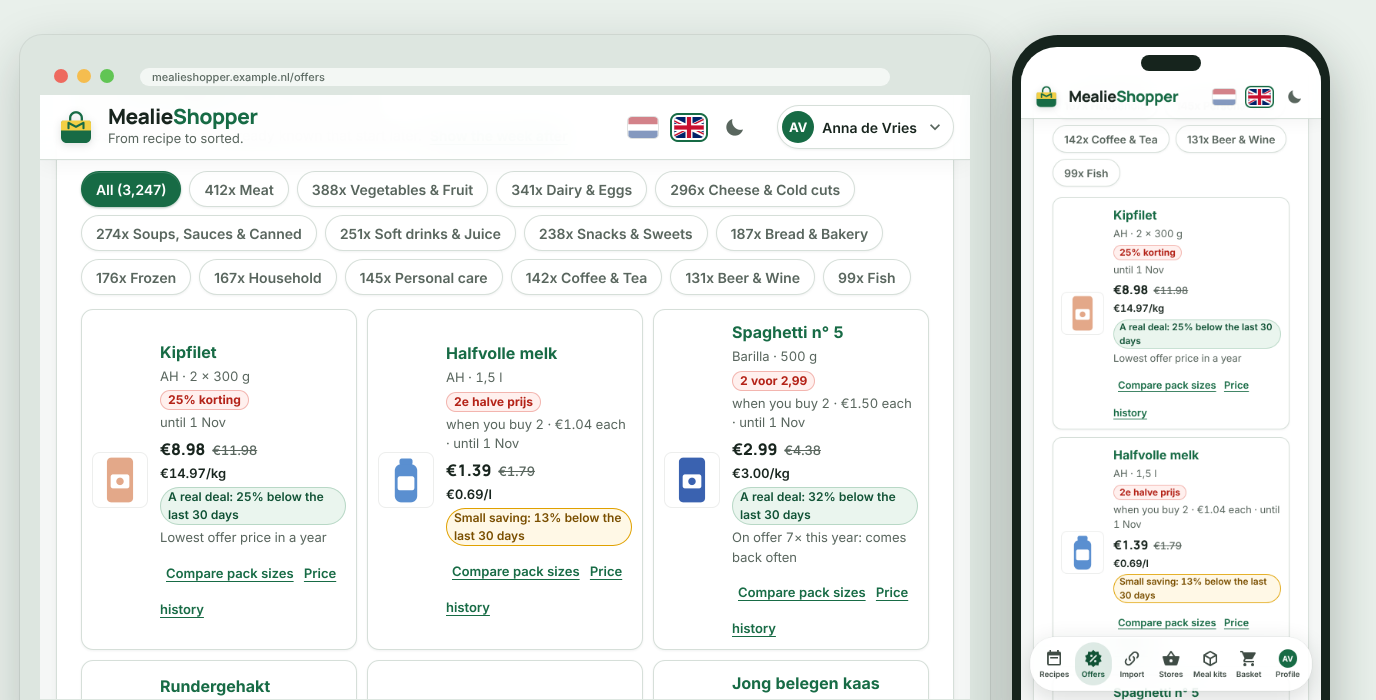
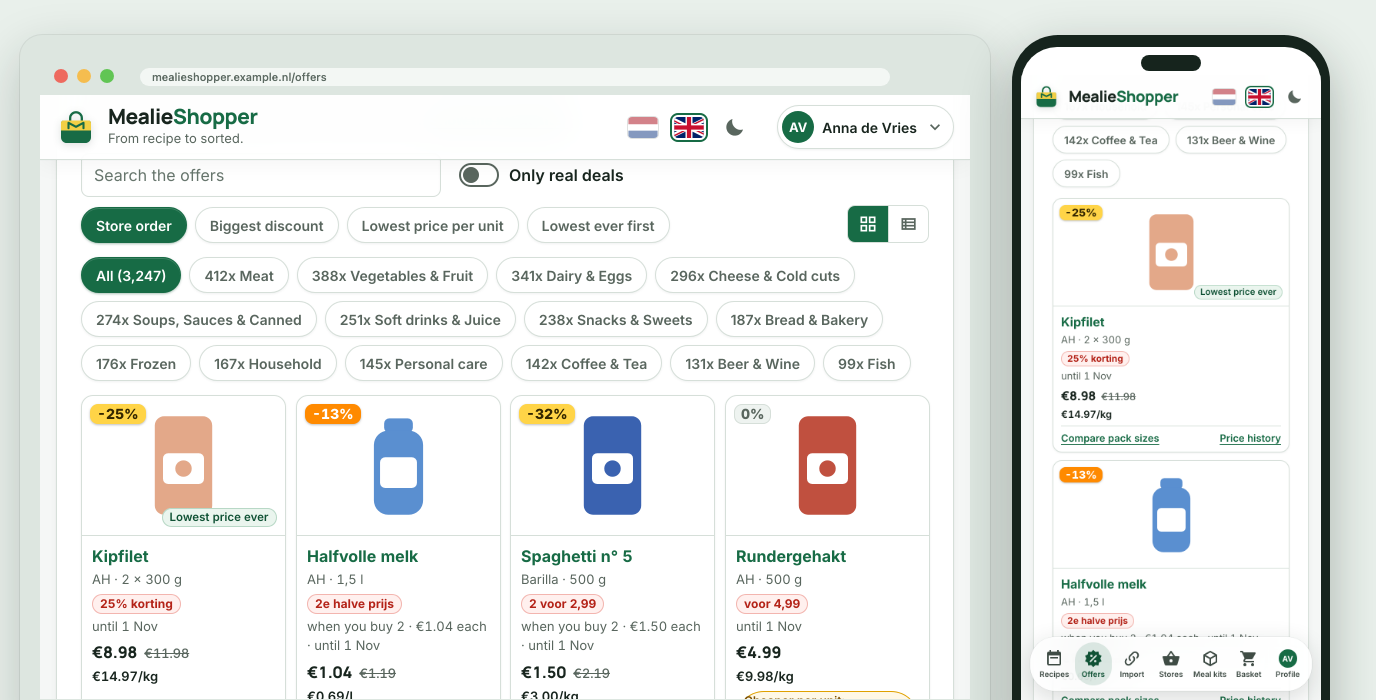
Screenshots: de aanbiedingen met badge, prijslabel en de compacte weergave

diff --git a/scripts/screenshots/scenarios/15-offers.js b/scripts/screenshots/scenarios/15-offers.js
@@ -39,21 +39,29 @@ const PER_CATEGORY = {
   brood_bakkerij: 187, diepvries: 176, huishouden: 167, drogisterie: 145, koffie_thee: 142, bier_wijn: 131, vis: 99,
 };
 // Het oordeel per aanbieding (zie prices.annotate), op titel: [soort, procent onder de laagste gewone prijs van 30 dagen, die prijs,
-// extra]. Extra: best (laagste actieprijs in een jaar), often (zo vaak dit jaar), inflated (de prijs ervoor is hoger dan wat het de
-// laatste 30 dagen kostte), pack (een verpakking die per eenheid goedkoper is: [titel, inhoud, prijs]).
+// extra]. Extra: often (zo vaak dit jaar), inflated (de prijs ervoor is hoger dan wat het de laatste 30 dagen kostte), store (de app
+// kent geen gewone prijs: de badge is de claim van de winkel), pack (een verpakking die per eenheid goedkoper is: [titel, inhoud, prijs]).
 const VERDICTS = {
-  Kipfilet: ["good", 25, 11.98, { best: true }],
+  Kipfilet: ["good", 25, 11.98],
   "Halfvolle melk": ["small", 13, 1.19],
   "Spaghetti n° 5": ["good", 32, 2.19, { often: 7 }],
   Rundergehakt: ["none", 0, 4.99, { inflated: true, pack: ["Rundergehakt", "1000 g", 8.98] }],
-  Komkommer: ["good", 30, 0.99],
+  Komkommer: ["good", 30, 0.99, { store: true }],
   "Jong belegen kaas plakken": ["small", 9, 3.85, { often: 9 }],
-  "Volkoren tijgerbrood": ["good", 50, 2.69, { best: true }],
+  "Volkoren tijgerbrood": ["good", 50, 2.69],
   "Cola zero": ["small", 15, 2.35],
   Koffiebonen: ["good", 26, 18.99],
   Kerstomaten: ["none", 0, 1.49, { inflated: true }],
   "Pesto alla Genovese": ["good", 25, 2.79],
   Zalmfilet: ["small", 8, 5.99],
+};
+// Het prijslabel uit de geschiedenis (prices.price_label), op titel: elke trede één keer.
+const LABELS = {
+  Kipfilet: { kind: "lowest_ever", coveredSince: "2024-03-02" },
+  "Volkoren tijgerbrood": { kind: "lowest_12m", coveredSince: "2025-01-13" },
+  Koffiebonen: { kind: "lowest_6m", coveredSince: "2026-02-09" },
+  "Pesto alla Genovese": { kind: "lowest_seen", month: "2026-08", coveredSince: "2026-08-12" },
+  Zalmfilet: { kind: "lower_before", price: 4.99, month: "2026-05", coveredSince: "2025-01-10" },
 };
 function verdictOf(title) {
   const [kind, percent, lowestRegular, extra = {}] = VERDICTS[title] || ["unknown", null, null];
@@ -63,13 +71,22 @@ function verdictOf(title) {
     cheaperPack: pack,
   };
 }
+function badgeOf(title, price, priceBefore) {
+  const [kind, percent, , extra = {}] = VERDICTS[title] || ["unknown", null, null];
+  if (kind === "unknown") return null;
+  const claimed = priceBefore ? Math.round(((priceBefore - price) / priceBefore) * 100) : null;
+  return { percent, source: extra.store ? "store" : "history", claimed, inflated: Boolean(extra.inflated) };
+}
+function labelOf(title) {
+  return { kind: null, price: null, month: null, coveredSince: null, ...(LABELS[title] || {}) };
+}
 
 const toOffer = ([title, brand, unitSize, price, priceBefore, promoLabel, category, color, kind, minQuantity = 1, unitPrice = null], at) => ({
   id: `wi${100000 + at}`, title, brand, unitSize, price, priceBefore, promoLabel, category,
   image: product(color, kind), url: `https://www.example.nl/producten/product/wi${100000 + at}`,
   validFrom: WEEK[0], validUntil: WEEK[6], validity: "current", minQuantity, unitPrice: unitPrice || price,
   mechanic: /voor \d/.test(promoLabel) && minQuantity === 1 ? "fixed" : "discount",
-  unitPricePer: perUnit(unitPrice || price, unitSize), verdict: verdictOf(title),
+  unitPricePer: perUnit(unitPrice || price, unitSize), verdict: verdictOf(title), badge: badgeOf(title, price, priceBefore), priceLabel: labelOf(title),
 });
 const offers = BONUS.map(toOffer);
 for (const [category, count] of Object.entries(PER_CATEGORY)) {
@@ -281,13 +298,29 @@ const compareAnswer = {
 module.exports = [
   {
     name: "offers",
-    routes: { "/api/offers*": offersAnswer },
+    routes: { "/api/offers*": offersAnswer, "/api/prices/history*": historyAnswer },
+    run: async (page, { device }) => {
+      await page.click('[data-tab="offers"]');
+      await page.evaluate(() => localStorage.setItem("ms-offers-view", "cards"));
+      await page.click('#offers-view [data-view="cards"]');
+      await page.waitForSelector("#offers-products .offer-card");
+      // Op het bureaublad de werkbalk, de categorieën en de eerste rij kaarten met badge en prijslabel; op de telefoon passen de
+      // categorieën en de kaarten niet samen, daar staan de kaarten bovenaan.
+      const [selector, offset] = device === "phone" ? ["#offers-products", 160] : ["#offers-products", 300];
+      await page.evaluate(([sel, off]) => window.scrollTo(0, document.querySelector(sel).getBoundingClientRect().top + window.scrollY - off), [selector, offset]);
+      await page.waitForTimeout(400);
+    },
+  },
+  {
+    // De compacte lijst: één regel per aanbieding met de kopregel erboven.
+    name: "offers-compact",
+    routes: { "/api/offers*": offersAnswer, "/api/prices/history*": historyAnswer },
     run: async (page, { device }) => {
       await page.click('[data-tab="offers"]');
       await page.waitForSelector("#offers-products .product-card");
-      // Op het bureaublad de categorieën en de eerste rij producten met hun prijs per eenheid en oordeel; op de telefoon passen de
-      // categorieën en de producten niet samen, daar staan de producten bovenaan.
-      const [selector, offset] = device === "phone" ? ["#offers-products", 160] : ["#offers-products", 215];
+      await page.click('#offers-view [data-view="compact"]');
+      await page.waitForSelector("#offers-products .offer-row:not(.offer-row--head)"); // de kopregel is op de telefoon verborgen
+      const [selector, offset] = device === "phone" ? ["#offers-products", 160] : ["#offers-products", 300];
       await page.evaluate(([sel, off]) => window.scrollTo(0, document.querySelector(sel).getBoundingClientRect().top + window.scrollY - off), [selector, offset]);
       await page.waitForTimeout(400);
     },
